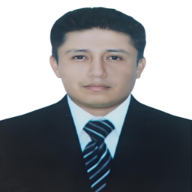
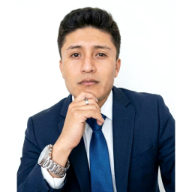
Miguel Flores Dev

diff --git a/index.html b/index.html
@@ -1,9 +1,9 @@
-<!DOCTYPE html>
+<!DOCTYPE html>
 <html lang="es">
 <head>
 <meta charset="UTF-8">
 <meta name="viewport" content="width=device-width, initial-scale=1.0">
-<title>Miguel Flores Chuye — Data Analyst & IT Specialist</title>
+<title>Miguel Flores Dev</title>
 <link href="https://fonts.googleapis.com/css2?family=Syne:wght@400;600;700;800&family=DM+Sans:ital,opsz,wght@0,9..40,300;0,9..40,400;0,9..40,500;1,9..40,300&display=swap" rel="stylesheet">
 <link rel="apple-touch-icon" sizes="180x180" href="/apple-touch-icon.png">
 <link rel="icon" type="image/png" sizes="32x32" href="/favicon-32x32.png">
@@ -319,7 +319,7 @@ footer p{font-size:.78rem;color:var(--text-muted);}
         <div class="hero-photo-ring"></div>
         <div class="hero-photo-ring2"></div>
         <div class="hero-photo">
[1 lines of base64/hex data omitted]
+          <img src="img/Data_Analytics.jpeg" alt="Miguel Flores Chuye" />
         </div>
         <div class="hero-photo-badge"><span class="badge-dot2"></span>Disponible</div>
       </div>
@@ -340,7 +340,6 @@ footer p{font-size:.78rem;color:var(--text-muted);}
           <h2 class="section-title">Los datos <span class="grad">cuentan<br>historias</span></h2>
         </div>
         <p>Soy un profesional de TI con base , apasionado por convertir datos complejos en decisiones estratégicas concretas. Mi perfil combina rigor técnico con comprensión del negocio.</p>
-        <p>Con experiencia en empresas como <strong>Bata Perú</strong> y <strong>Brandint S.A.C.</strong>, he diseñado dashboards, optimizado inventarios estacionales y automatizado procesos que generaron impacto real en la rentabilidad.</p>
         <p>Mi objetivo es crecer hacia <strong>Business Intelligence, Data Engineering y Cloud Computing</strong> (AWS/Azure), construyendo soluciones que escalen con el negocio.</p>
         <div class="chips">
           <span class="chip">Business Intelligence</span>
